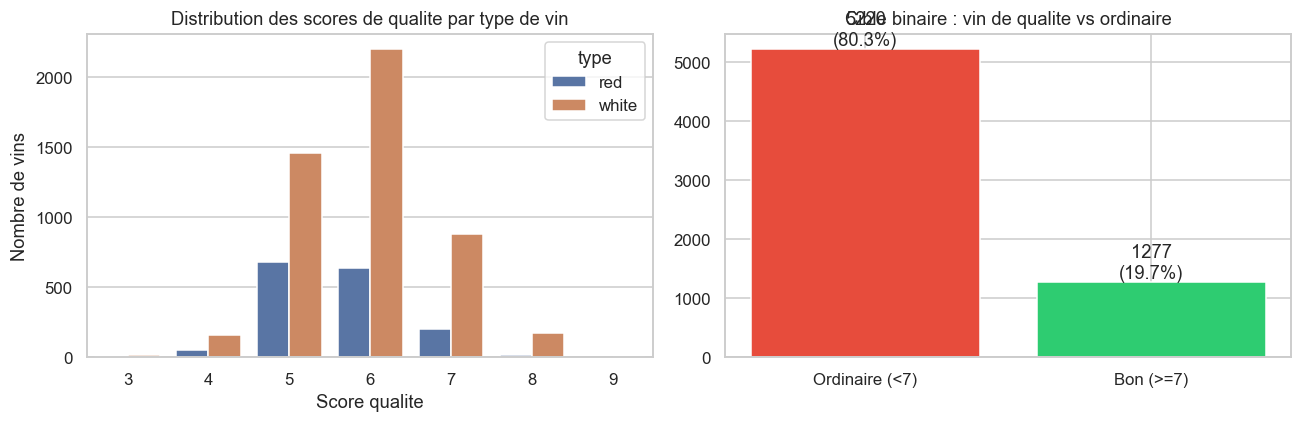
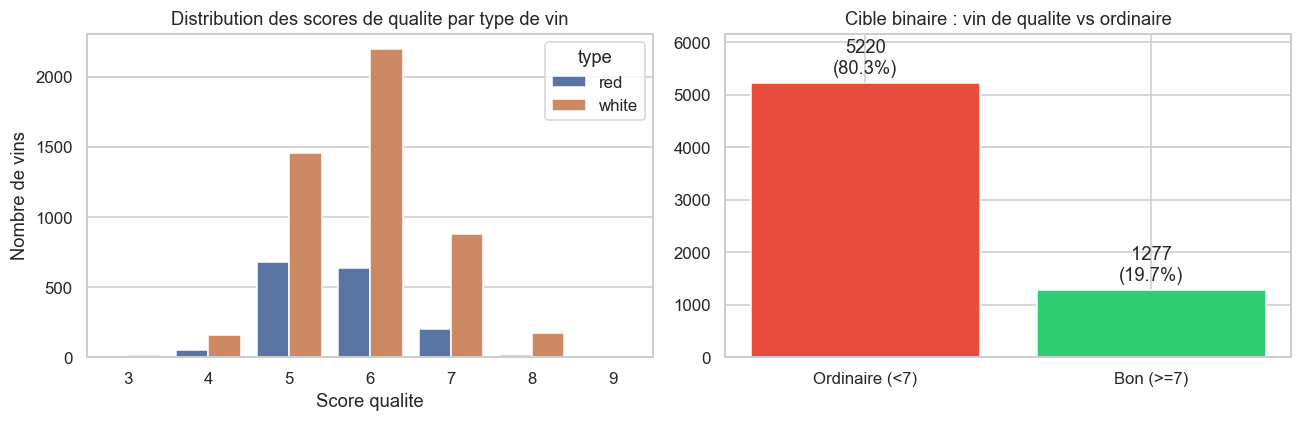
fix: chevauchement label/titre Figure 1 (ylim + offset)

diff --git a/build_notebook.py b/build_notebook.py
@@ -153,8 +153,9 @@ df["quality_binary"] = (df["quality"] >= 7).astype(int)
 counts = df["quality_binary"].value_counts().sort_index()
 axes[1].bar(["Ordinaire (<7)", "Bon (>=7)"], counts.values, color=["#e74c3c", "#2ecc71"])
 axes[1].set_title("Cible binaire : vin de qualite vs ordinaire")
+axes[1].set_ylim(0, max(counts.values) * 1.18)  # headroom pour les labels
 for i, v in enumerate(counts.values):
-    axes[1].text(i, v, f"{v}\\n({v/len(df)*100:.1f}%)", ha="center", va="bottom")
+    axes[1].text(i, v + max(counts.values) * 0.02, f"{v}\\n({v/len(df)*100:.1f}%)", ha="center", va="bottom")
 plt.tight_layout()
 plt.savefig(FIG_DIR / "01_target_distribution.png", bbox_inches="tight")
 plt.show()